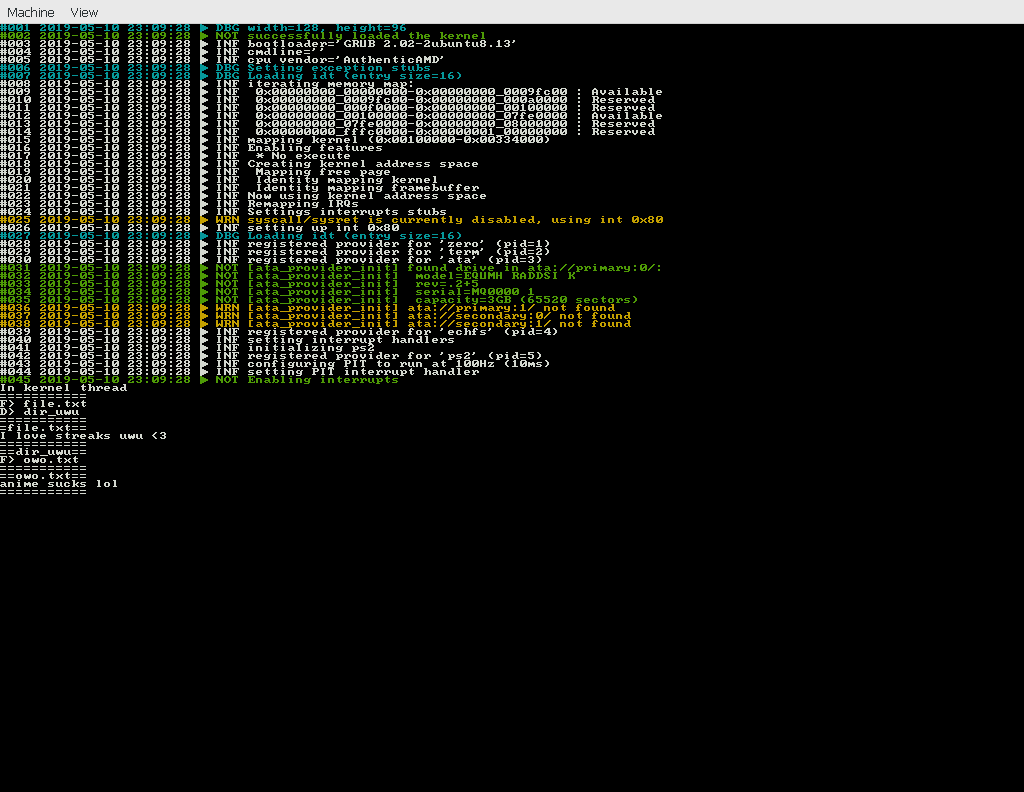
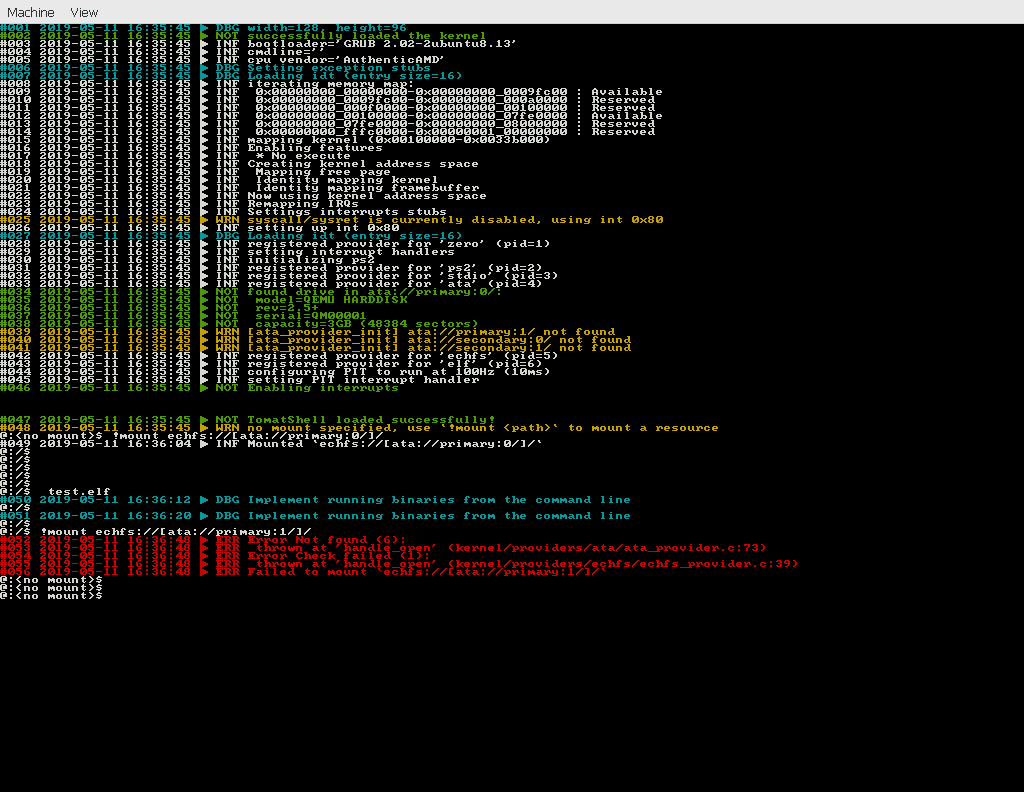
Got a basic shell! Still need to add a few stuff to it tho

diff --git a/kernel/shell/shell.c b/kernel/shell/shell.c
@@ -7,6 +7,9 @@
 #include <common/string.h>
 #include <common/klib.h>
 #include <common/ctype.h>
+#include <process/process.h>
+#include <graphics/term.h>
+#include <providers/stdio/stdio_provider.h>
 #include "shell.h"
 
 static resource_descriptor_t* resolve_uri(const char* str) {
@@ -126,4 +129,115 @@ bool resolve_and_open(const char* str, resource_t* resource) {
     bool succ = open(desc, resource);
     delete_resource_descriptor(desc);
     return succ;
+}
+
+static const char* mount_point;
+static resource_descriptor_t* descriptor;
+static resource_t working_dir;
+
+static void safe_close(resource_t res) {
+    if(res != NULL) {
+        close(res);
+    }
+}
+
+static void safe_delete(void* ptr) {
+    if(ptr != NULL) {
+        kfree(ptr);
+    }
+}
+
+static void handle_command(const char* command_line) {
+    if(buf_len(command_line) == 0 || strlen(command_line) == 0) return;
+    if(command_line[0] == '!') {
+        // Builtins, incase no mount is found
+        if(strncmp(command_line, "!mount ", 7) == 0) {
+            safe_close(working_dir);
+            working_dir = NULL;
+            if(descriptor) delete_resource_descriptor(descriptor);
+            const char* uri_start = strchr(command_line, ' ') + 1;
+            descriptor = resolve_uri(uri_start);
+            if(descriptor == NULL) {
+                LOG_ERROR("Failed to resolve path!");
+            }else {
+                if(open(descriptor, &working_dir)) {
+                    LOG_INFO("Mounted `%s`", uri_start);
+                }else {
+                    LOG_ERROR("Failed to mount `%s`", uri_start);
+                    delete_resource_descriptor(descriptor);
+                    descriptor = NULL;
+                }
+            }
+        }else {
+            LOG_ERROR("No such builtin");
+        }
+    }else {
+        // run a binary
+        LOG_DEBUG("Implement running binaries from the command line");
+    }
+}
+
+static void shell_start() {
+    resource_t stdin;
+    char* command_line = NULL;
+
+    term_write("\n\n\n");
+    LOG_NOTICE("TomatShell loaded successfully!");
+
+    descriptor = resolve_uri(mount_point);
+    if(!resolve_and_open("stdio://stdin/", &stdin)) {
+        LOG_CRITICAL("shell failed to open stdin :(");
+        tkill(0);
+        // TODO: Exit process
+    }
+
+    if(mount_point != NULL && strlen(mount_point) > 0) {
+        if(!resolve_and_open(mount_point, &working_dir)) {
+            LOG_ERROR("Failed to mount `%s`, use `!mount <path>` to mount a resource", mount_point);
+        }else {
+            LOG_INFO("Loaded mount `%s`", mount_point);
+        }
+    }else {
+        LOG_WARN("no mount specified, use `!mount <path>` to mount a resource");
+    }
+
+    while(true) {
+        if(descriptor != NULL) {
+            term_print("@:%s$ ", descriptor->path ? descriptor->path : "/");
+        }else {
+            term_print("@:<no mount>$ ");
+        }
+
+        char ch[] = { 0, 0 };
+        while(ch[0] != '\n') {
+            wait(stdin);
+            while(poll(stdin)) {
+                read(stdin, &ch[0], 1, NULL);
+                if(buf_len(command_line) > 0 && ch[0] == KEYS_BACKSPACE) {
+                    // delete char
+                    term_set_cursor_pos(term_get_cursor_x() - 1, term_get_cursor_y());
+                    term_write(" ");
+                    term_set_cursor_pos(term_get_cursor_x() - 1, term_get_cursor_y());
+                    buf_resize(command_line, buf_len(command_line) - 1);
+                }else if(ch[0] != '\n') {
+                    // add char
+                    buf_push(command_line, ch[0]);
+                    term_write(ch);
+                }
+            }
+        }
+        term_write("\n");
+        buf_push(command_line, 0);
+        handle_command(command_line);
+        buf_clear(command_line);
+    }
+}
+
+void start_shell(const char* mount) {
+    process_t* process = process_create(shell_start, true);
+    char* stack = kalloc(MB(1));
+    process->threads[0]->cpu_state.rsp = (uint64_t)stack + MB(1);
+    process->threads[0]->cpu_state.rbp = (uint64_t)stack + MB(1);
+
+    mount_point = mount;
 }

diff --git a/kernel/kernel.c b/kernel/kernel.c
@@ -34,44 +34,6 @@
 extern void* boot_pdpe;
 mm_context_t kernel_memory_manager;
 
-static void thread_kernel(void* arg) {
-    resource_t stdout;
-    resource_t stdin;
-    resolve_and_open("stdio://stdout/", &stdout);
-    write(stdout, "In kernel thread\n", sizeof("In kernel thread\n"), NULL);
-    resolve_and_open("stdio://stdin/", &stdin);
-
-    resource_t echfs_file;
-    if(resolve_and_open("echfs://[ata://primary:0/]/", &echfs_file)) {
-        echfs_directory_entry_t entry;
-        fprintf(stdout, "===========\n");
-        while(invoke(echfs_file, 1, &entry)) {
-            fprintf(stdout, "%c> %s\n", entry.type == ECHFS_OBJECT_TYPE_FILE ? 'F' : 'D', entry.name);
-        }
-        fprintf(stdout, "===========\n");
-        close(echfs_file);
-    }else {
-        fprintf(stdout, "Failed to open echfs://[ata://primary:0/]/\n");
-    }
-
-    fprintf(stdout, "attempting to load elf file...\n");
-    resource_t elf;
-    if(resolve_and_open("elf://[echfs://[ata://primary:0/]/test.elf]/", &elf)) {
-        close(elf);
-    }else {
-        fprintf(stdout, "Failed to open elf://[echfs://[ata://primary:0/]/test.elf]/\n");
-    }
-
-    while(true) {
-        wait(stdin);
-        while(poll(stdin)) {
-            char c;
-            read(stdin, &c, 1, NULL);
-            fprintf(stdout, "%c", c);
-        }
-    }
-}
-
 void kernel_main(multiboot_info_t* info) {
     error_t err = NO_ERROR;
 
@@ -127,11 +89,9 @@ void kernel_main(multiboot_info_t* info) {
     // initlize the scheduler
     CHECK_AND_RETHROW(scheduler_init());
 
-    // create some test processes
-    process_t* pk = process_create(thread_kernel, true);
-    char* kstack = kalloc(KB(4));
-    pk->threads[0]->cpu_state.rbp = (uint64_t)kstack + KB(4);
-    pk->threads[0]->cpu_state.rsp = (uint64_t)kstack + KB(4);
+    // start the embedded shell
+    // TODO: Mount from the commandline
+    start_shell("");
 
     // kick start the system!
     LOG_NOTICE("Enabling interrupts");

diff --git a/kernel/providers/ata/ata_provider.c b/kernel/providers/ata/ata_provider.c
@@ -70,7 +70,7 @@ static error_t handle_open(process_t* process, thread_t* thread, resource_descri
 
     // get the ide entry
     ata_entry_t* entry = find_entry(controller, kdesc.port);
-    CHECK_ERROR(entry, ERROR_NOT_FOUND);
+    CHECK_ERROR(entry && entry->present, ERROR_NOT_FOUND);
 
     // create the resource and add the context to it
     CHECK_AND_RETHROW(resource_create(process, &ata_provider, &created_resource));

diff --git a/kernel/providers/stdio/stdio_provider.c b/kernel/providers/stdio/stdio_provider.c
@@ -262,7 +262,7 @@ static void dispatch(uint8_t c) {
                 }
 
                 // we ended with something which is not printable, ignore
-                if(!isprint(c) && c != KEYS_BACKSPACE) {
+                if(!isprint(c) && c != KEYS_BACKSPACE && c != '\n') {
                     continue;
                 }
             }

diff --git a/kernel/shell/shell.h b/kernel/shell/shell.h
@@ -3,4 +3,6 @@
 
 bool resolve_and_open(const char* str, resource_t* resource);
 
+void start_shell(const char* mount_point);
+
 #endif //TOMATKERNEL_SHELL_H

diff --git a/README.md b/README.md
@@ -13,6 +13,7 @@ For specific information about the kernel you can go to the [kernel readme](kern
 * Syscalls (open, close read, write, etc..)
 * High-res support (currently still a terminal interface tho)
 * Cool looking logger
+* An embedded shell (WIP)
 * Unique resource abstraction system (basically URI based)
 
 ## Providers
@@ -32,8 +33,7 @@ providers are basically drivers in TomatOS, they provider with function to do st
 
 these are things that I am going to actively work on
 
-* Turn term to stdio with stdout and stdin
-* Simple Shell (just allows to run programs)
+* Simple embedded shell
 
 ### Planned in the near future
 
